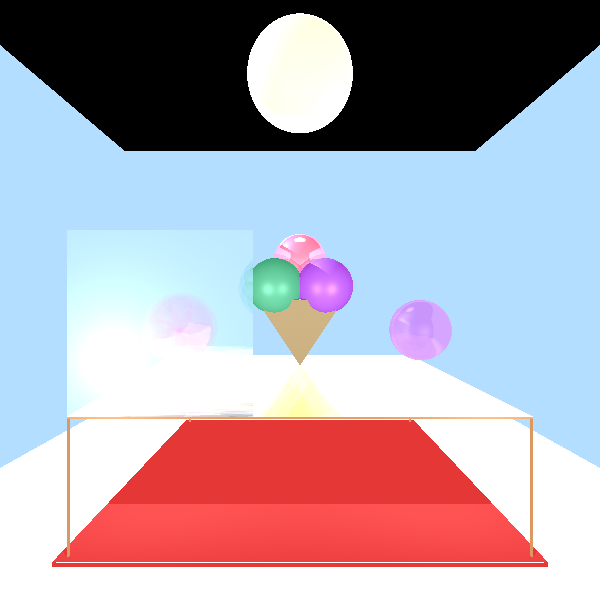
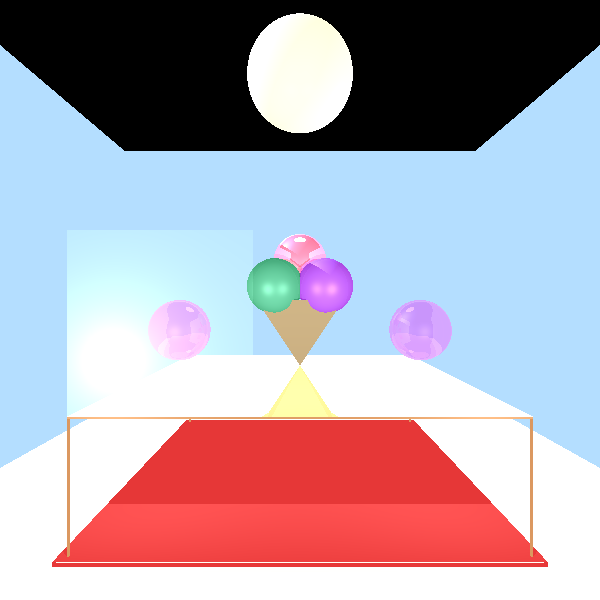
ci

diff --git a/Tests/renderer/cooleststuffever.java b/Tests/renderer/cooleststuffever.java
@@ -1,0 +1,36 @@
+//package renderer;
+//
+//import elements.*;
+//import geometries.*;
+//import org.junit.jupiter.api.Test;
+//import primitives.*;
+//import renderer.*;
+//import scene.Scene;
+//
+//public class cooleststuffever {
+//    private Camera _camera= new Camera(new Point3D(140,0,15),new Vector(-1,0,0), new Vector(0,0,1)).setViewPlaneSize(200, 200).setDistance(140);
+//    private Scene scene = new Scene("wonderful").setAmbientLight(new AmbientLight(new Color(java.awt.Color.WHITE), 0.2));
+//    @Test
+//    public void cooleststuffever(){
+//        scene.geometries.add(
+//            new Polygon(new Point3D(-60,-60,-5),new Point3D(60,-60,-5),new Point3D(60,60,-5),new Point3D(-60,60,-5))
+//                    .setMaterial(new Material().setKd(0.5).setKr(0.3).setKs(0.1).setKt(0.6).setShininess(30))
+//                    .setEmission(new Color(56, 107, 43)),
+//            //the left post
+//            new Polygon(new Point3D(0,-10,-5), new Point3D(0,-11,-5), new Point3D(0,-11,10), new Point3D(0,-10,10)),
+//            new Polygon(new Point3D(-2,-10,-5), new Point3D(-2,-11,-5), new Point3D(-2,-11,10), new Point3D(-2,-10,10)),
+//            new Polygon(new Point3D(0,-10,-5),new Point3D(-2,-10,-5),new Point3D(-2,-10,10),new Point3D(0,-10,10)),
+//            new Polygon(new Point3D(0,-11,-5),new Point3D(-2,-11,-5),new Point3D(-2,-11,10),new Point3D(0,-11,10)),
+//            //the cross bar
+//            new Polygon(new Point3D(0,-11,10),new Point3D(-2,-11,10),new Point3D(-2,11,10),new Point3D(0,11,10)),
+//            new Polygon(new Point3D(0,-10,8),new Point3D(-2,-10,8),new Point3D(-2,10,8), new Point3D(0,10,8)),
+//            new Polygon(new Point3D(0,-10,8),new Point3D(0,-10,10),new Point3D(0,10,10),new Point3D(0,10,8)),
+//            new Polygon(new Point3D(-2,-10,8),new Point3D(-2,-10,10),new Point3D(-2,10,10),new Point3D(-2,10,8)),
+//            //the right post
+//                new Polygon(new Point3D(0,10,-5), new Point3D(0,11,-5), new Point3D(0,11,10), new Point3D(0,10,10)),
+//                new Polygon(new Point3D(-2,-10,-5), new Point3D(-2,11,-5), new Point3D(-2,11,10), new Point3D(-2,10,10)),
+//                new Polygon(new Point3D(0,10,-5),new Point3D(-2,10,-5),new Point3D(-2,10,10),new Point3D(0,10,10)),
+//                new Polygon(new Point3D(0,11,-5),new Point3D(-2,11,-5),new Point3D(-2,11,10),new Point3D(0,11,10)),
+//                );
+//    }
+//}

diff --git a/src/scene/Scene.java b/src/scene/Scene.java
@@ -24,7 +24,7 @@ public class Scene {
     public AmbientLight ambientLight = new AmbientLight(Color.BLACK, 1.d);
     public Geometries geometries = new Geometries();
     public List<LightSource> lights = new LinkedList<LightSource>();
-    public int RayAmount = 0;
+    public int RayAmount = 8;
     //public Box box = new Box();
 
     /**

diff --git a/src/primitives/Material.java b/src/primitives/Material.java
@@ -16,8 +16,8 @@ public class Material {
     public int nShininess = 0;
     public double kT = 0;
     public double kR = 0;
-    public double GlossRadius=1;
-    public double DeffRadius=5;
+    public double GlossRadius=8;
+    public double DeffRadius=8;
 
     /**
      * sets deffuse radius returns this
